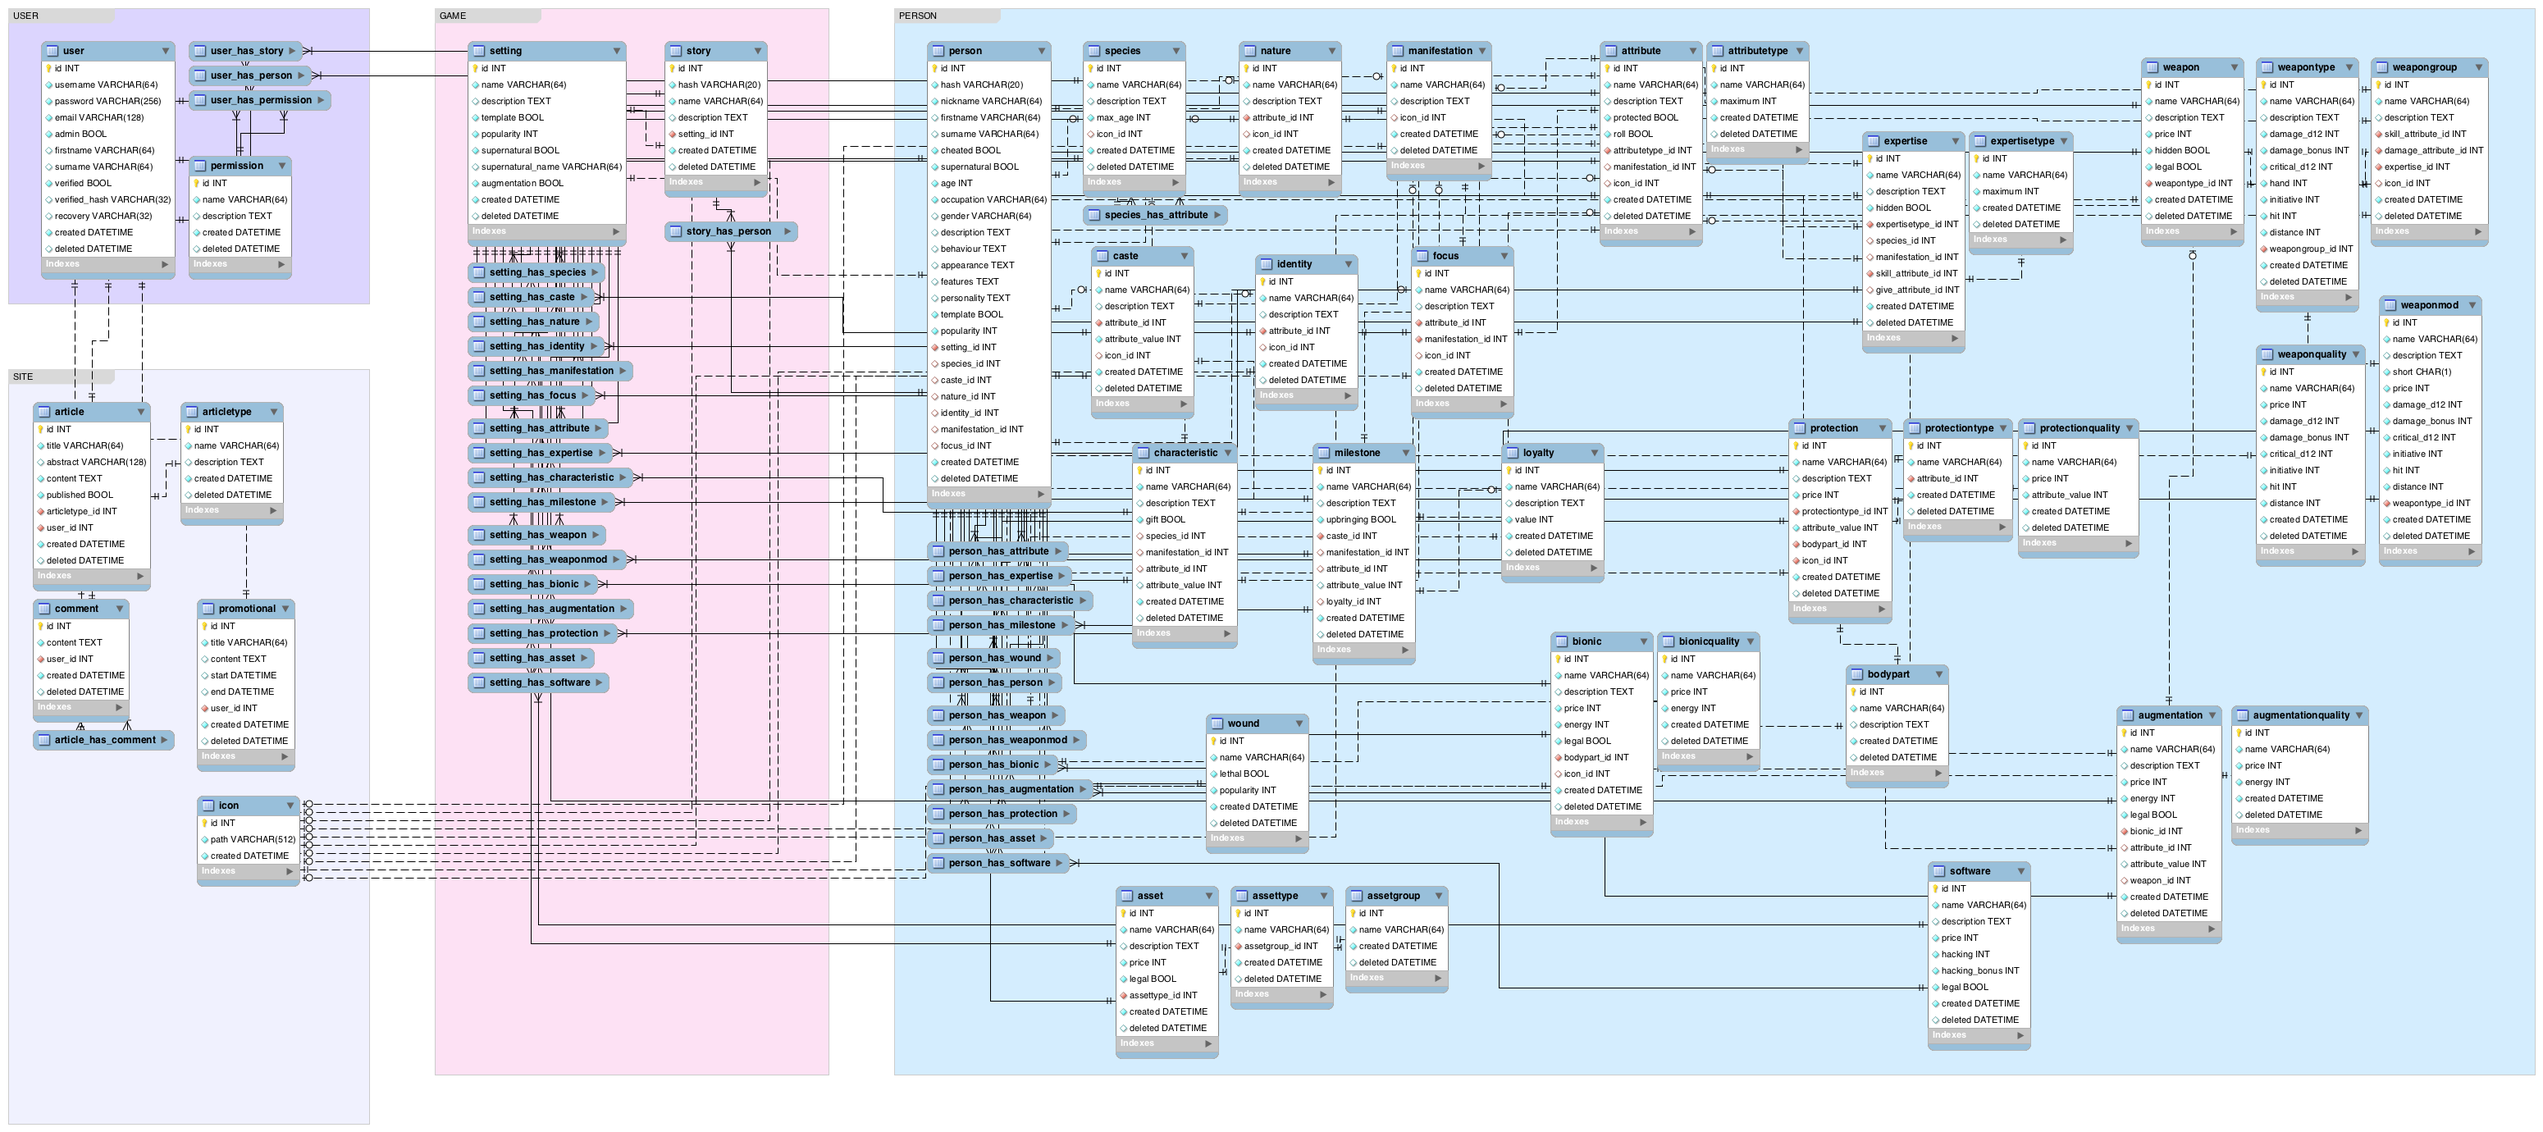
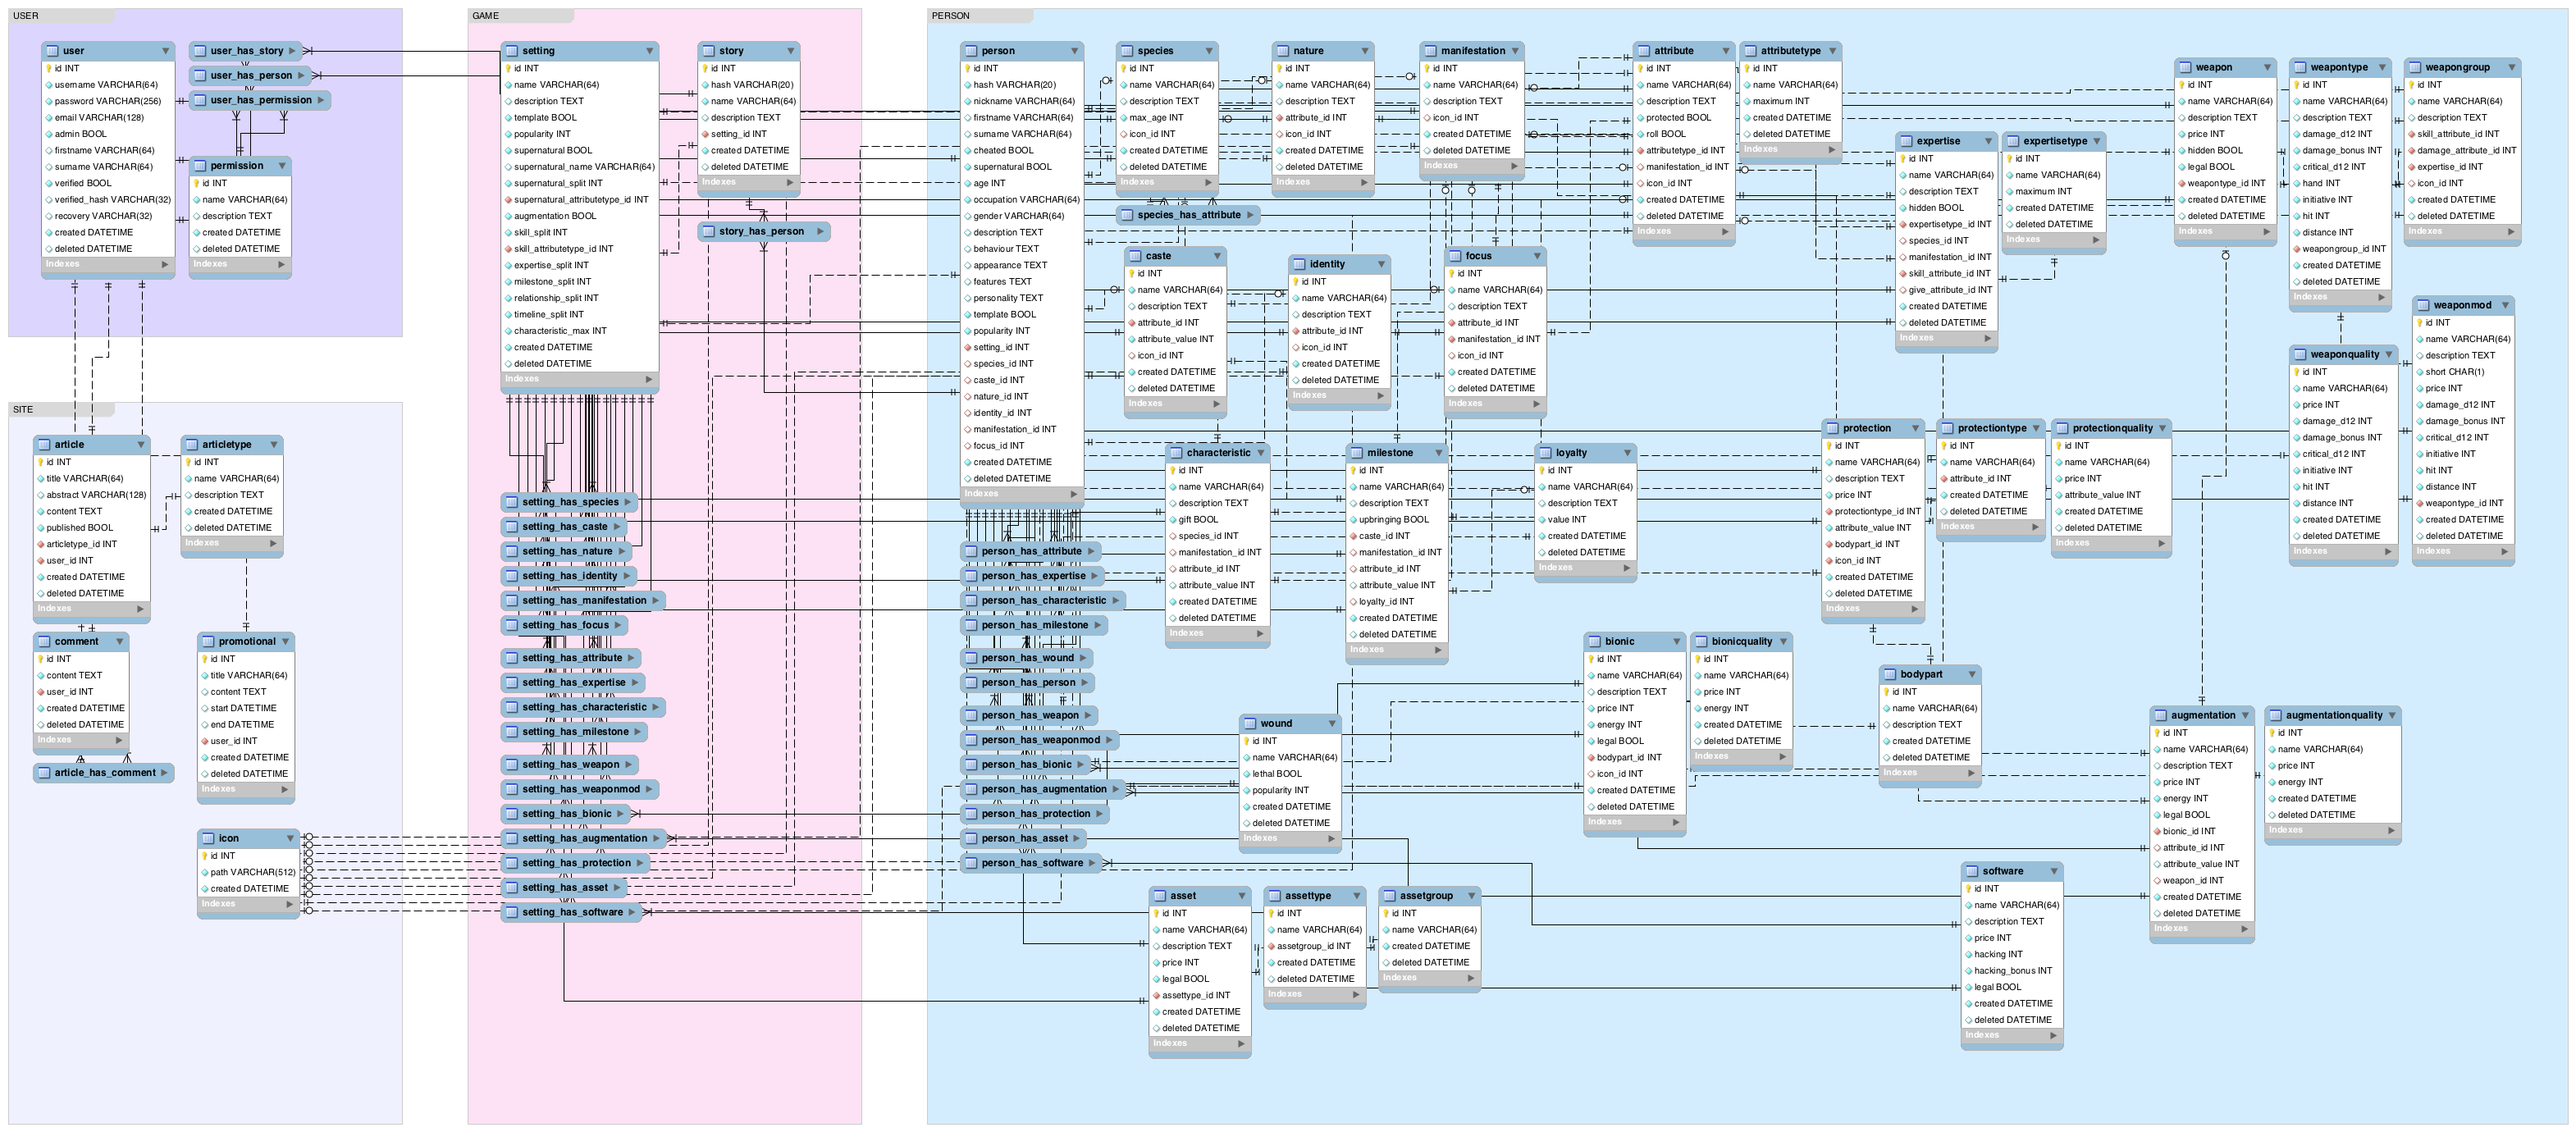
refactoring added setting.js improved user.js

Changed region(s): [[0.0, 0.0, 1.0, 0.9971]]

diff --git a/app/user/user.js b/app/user/user.js
@@ -17,17 +17,15 @@ module.exports = function(pool, router, table, path) {
 
     var query = 'SELECT ' +
         'user.id, ' +
-        'user.name, ' +
         'user.username, ' +
         'user.email, ' +
         'user.admin, ' +
+        'user.firstname, ' +
+        'user.surname, ' +
         'user.verified, ' +
-        'user.usergroup_id, ' +
-        'usergroup.name AS usergroup_name, ' +
         'user.created, ' +
         'user.deleted ' +
-        'FROM user ' +
-        'LEFT JOIN usergroup ON usergroup.id = user.usergroup_id';
+        'FROM user';
 
     router.get(path, function(req, res) {
         rest.QUERY(pool, req, res, query, null);
@@ -70,26 +68,56 @@ module.exports = function(pool, router, table, path) {
     });
 
     router.post(path + '/password', function(req, res) {
-        var password = req.body.password;
+        var orig_password = req.body.original_password,
+            new_password = req.body.new_password;
 
-        if(!req.headers.authorization) {
-            res.status(404).send({message: 'missing token'});
+        if(!req.headers.token) {
+            res.status(404).send({header: 'Missing Token', message: 'missing token'});
         } else {
             var token = tokens.decode(req),
-                validity = tokens.validate(req, token);
+                validity = tokens.validate(req, token),
+                user_id = token.sub.id;
 
             if(!validity) {
-                res.status(400).send({message: 'invalid token'});
+                res.status(400).send({header: 'Invalid Token', message: 'invalid token'});
             } else {
-                bcrypt.hash(onion.hash(password), saltRounds, function(error, hash) {
+                var user_call = 'SELECT * FROM user WHERE user.id = \'' + user_id + '\' AND user.deleted is null';
+
+                pool.query(user_call, function(error, user_result) {
+                    logger.logCall(file, user_call, error);
+
                     if(error) {
-                        logger.logError(file, error, 'BCRYPT');
-
-                        res.status(500).send({header: 'Internal Server Error', message: error});
+                        res.status(500).send({header: 'Internal SQL Error', message: error});
                     } else {
-                        var call = 'UPDATE user SET password = \'' + onion.encrypt(hash) + '\' WHERE user.id = ' + token.sub.id;
+                        if(!user_result[0]) {
+                            res.status(204).send({header: 'User ID Not Found', message: 'user ID not found'});
+                        } else {
+                            var user_password = user_result[0].password;
 
-                        rest.queryMessage(pool, res, call);
+                            bcrypt.compare(onion.hash(orig_password), onion.decrypt(user_password), function(error, response) {
+                                if (error) {
+                                    logger.logError(file, error, 'BCRYPT');
+
+                                    res.status(500).send({header: 'Internal Server Error', message: error});
+                                } else {
+                                    if (!response) {
+                                        res.status(403).send({header: 'Wrong Password', message: 'wrong password'});
+                                    } else {
+                                        bcrypt.hash(onion.hash(new_password), saltRounds, function(error, hash) {
+                                            if(error) {
+                                                logger.logError(file, error, 'BCRYPT');
+
+                                                res.status(500).send({header: 'Internal Server Error', message: error});
+                                            } else {
+                                                var call = 'UPDATE user SET password = \'' + onion.encrypt(hash) + '\' WHERE user.id = ' + user_id;
+
+                                                rest.queryMessage(pool, res, call);
+                                            }
+                                        });
+                                    }
+                                }
+                            });
+                        }
                     }
                 });
             }
@@ -117,6 +145,7 @@ module.exports = function(pool, router, table, path) {
                     bcrypt.compare(onion.hash(req_pass), onion.decrypt(res_pass), function(error, response) {
                         if(error) {
                             logger.logError(file, error, 'BCRYPT');
+
                             res.status(500).send({header: 'Internal Server Error', message: error});
                         } else {
                             if(!response) {
@@ -157,19 +186,15 @@ module.exports = function(pool, router, table, path) {
         });
     });
 
-    router.post(path + '/relog', function(req, res) {
-
-    });
-
     router.get(path + '/token', function(req, res) {
-        if(!req.headers.authorization) {
-            res.status(404).send({message: 'missing token'});
+        if(!req.headers.token) {
+            res.status(404).send({header: 'Missing Token', message: 'missing token'});
         } else {
             var token = tokens.decode(req),
                 validity = tokens.validate(req, token);
 
             if(!validity) {
-                res.status(400).send({message: 'invalid token'});
+                res.status(400).send({header: 'Invalid Token', message: 'invalid token'});
             } else {
                 res.status(200).send({user: token.sub});
             }
@@ -177,10 +202,7 @@ module.exports = function(pool, router, table, path) {
     });
 
     router.post(path + '/admin', function(req, res) {
-        var admin = req.body.admin,
-            user = req.body.user;
-
-        if(!req.headers.authorization) {
+        if(!req.headers.token) {
             res.status(403).send({header: 'Missing Token', message: 'missing token'});
         } else {
             var token = tokens.decode(req),
@@ -192,6 +214,9 @@ module.exports = function(pool, router, table, path) {
                 if(!token.sub.admin) {
                     res.status(403).send({header: 'Not Admin', message: 'you are not admin'});
                 } else {
+                    var admin = req.body.admin,
+                        user = req.body.user;
+
                     var call = 'UPDATE user SET admin = \'' + admin + '\' WHERE user.id = \'' + user + '\'';
 
                     pool.query(call, function(error, result) {

diff --git a/app/setting/setting.js b/app/setting/setting.js
@@ -1,0 +1,59 @@
+var rest = require('./../rest');
+
+module.exports = function(pool, router, table, path) {
+    path = path || '/' + table;
+
+    var query = 'SELECT ' +
+        'setting.name, ' +
+        'setting.description, ' +
+        'setting.template, ' +
+        'setting.popularity, ' +
+        'setting.supernatural, ' +
+        'setting.supernatural, ' +
+        'setting.supernatural, ' +
+        'setting.supernatural_attributetype_id, ' +
+        'a1.name AS supernatural_attributetype_name, ' +
+        'setting.augmentation, ' +
+        'setting.skill_split, ' +
+        'setting.skill_attributetype_id, ' +
+        'a2.name AS skill_attributetype_name, ' +
+        'setting.expertise_split, ' +
+        'setting.milestone_split, ' +
+        'setting.relationship_split, ' +
+        'setting.timeline_split, ' +
+        'setting.characteristic_max, ' +
+        'setting.created, ' +
+        'setting.deleted ' +
+        'FROM setting ' +
+        'LEFT JOIN attributetype a1 ON a1.id = setting.supernatural_attributetype_id ' +
+        'LEFT JOIN attributetype a2 ON a2.id = setting.skill_attributetype_id';
+
+    router.get(path + '/help', function(req, res) {
+        rest.HELP(pool, req, res, table);
+    });
+
+    router.get(path, function(req, res) {
+        rest.QUERY(pool, req, res, query, null);
+    });
+
+    router.get(path + '/id/:id', function(req, res) {
+        var call = query + ' WHERE setting.id = ?';
+        rest.QUERY(pool, req, res, call, [req.params.id]);
+    });
+
+    router.post(path, function(req, res) {
+        rest.POST(pool, req, res, table);
+    });
+
+    router.put(path, function(req, res) {
+        rest.INSERT(pool, req, res, table);
+    });
+
+    router.put(path + '/id/:id', function(req, res) {
+        rest.PUT(pool, req, res, table);
+    });
+
+    router.delete(path + '/id/:id', function(req, res) {
+        rest.DELETE(pool, req, res, table);
+    });
+};

diff --git a/app/tokens.js b/app/tokens.js
@@ -1,9 +1,8 @@
 var jwt = require('jwt-simple'),
     moment = require('moment'),
     hasher = require('./hasher'),
-    secret = require('./config').secrets.jwt;
-
-var iss = 'http://qateam.dev/';
+    secrets = require('./config').secrets,
+    base = require('./config').base;
 
 function generate(req, jsonData, permissions) {
     permissions = permissions || null;
@@ -20,7 +19,7 @@ function generate(req, jsonData, permissions) {
         iat: now,
         exp: end,
         jti: hasher(16),
-        iss: iss,
+        iss: base,
         oip: ip,
         sub: {
             id: jsonData.id,
@@ -34,11 +33,11 @@ function generate(req, jsonData, permissions) {
         agent: req.headers['user-agent']
     };
 
-    return jwt.encode(payload, secret);
+    return jwt.encode(payload, secrets.jwt);
 }
 
 function decode(req) {
-    return jwt.decode(req.headers.authorization, secret);
+    return jwt.decode(req.headers.token, secrets.jwt);
 }
 
 function validate(req, token) {

diff --git a/app/index.js b/app/index.js
@@ -55,7 +55,7 @@ module.exports = function(pool, router) {
     require('./person/person_has_wound')(pool, router, 'person_has_wound', '/person-wound');
 
     // SETTING
-    require('./default')(pool, router, 'setting');
+    require('./setting/setting')(pool, router, 'setting');
     require('./setting/setting_has_asset')(pool, router, 'setting_has_asset', '/setting-asset');
     require('./setting/setting_has_attribute')(pool, router, 'setting_has_attribute', '/setting-attribute');
     require('./setting/setting_has_augmentation')(pool, router, 'setting_has_augmentation', '/setting-augmentation');

diff --git a/server.js b/server.js
@@ -20,9 +20,9 @@ router.use(function(req, res, next) {
             req.socket.remoteAddress ||
             req.connection.socket.remoteAddress;
 
-        logger.error('caught faulty api key in header from IP: ' + ip + '. Key used: ' + req.headers.apikey);
+        logger.logError('server.js', 'Faulty apikey in header from IP: ' + ip + '. Key used: ' + req.headers.apikey, 'APIVERIFICATION');
 
-        res.status(403).send({error: 'faulty api key'});
+        res.status(403).send({header: 'Faulty API Key', message: 'Faulty API Key used.'});
     } else {
         next();
     }
